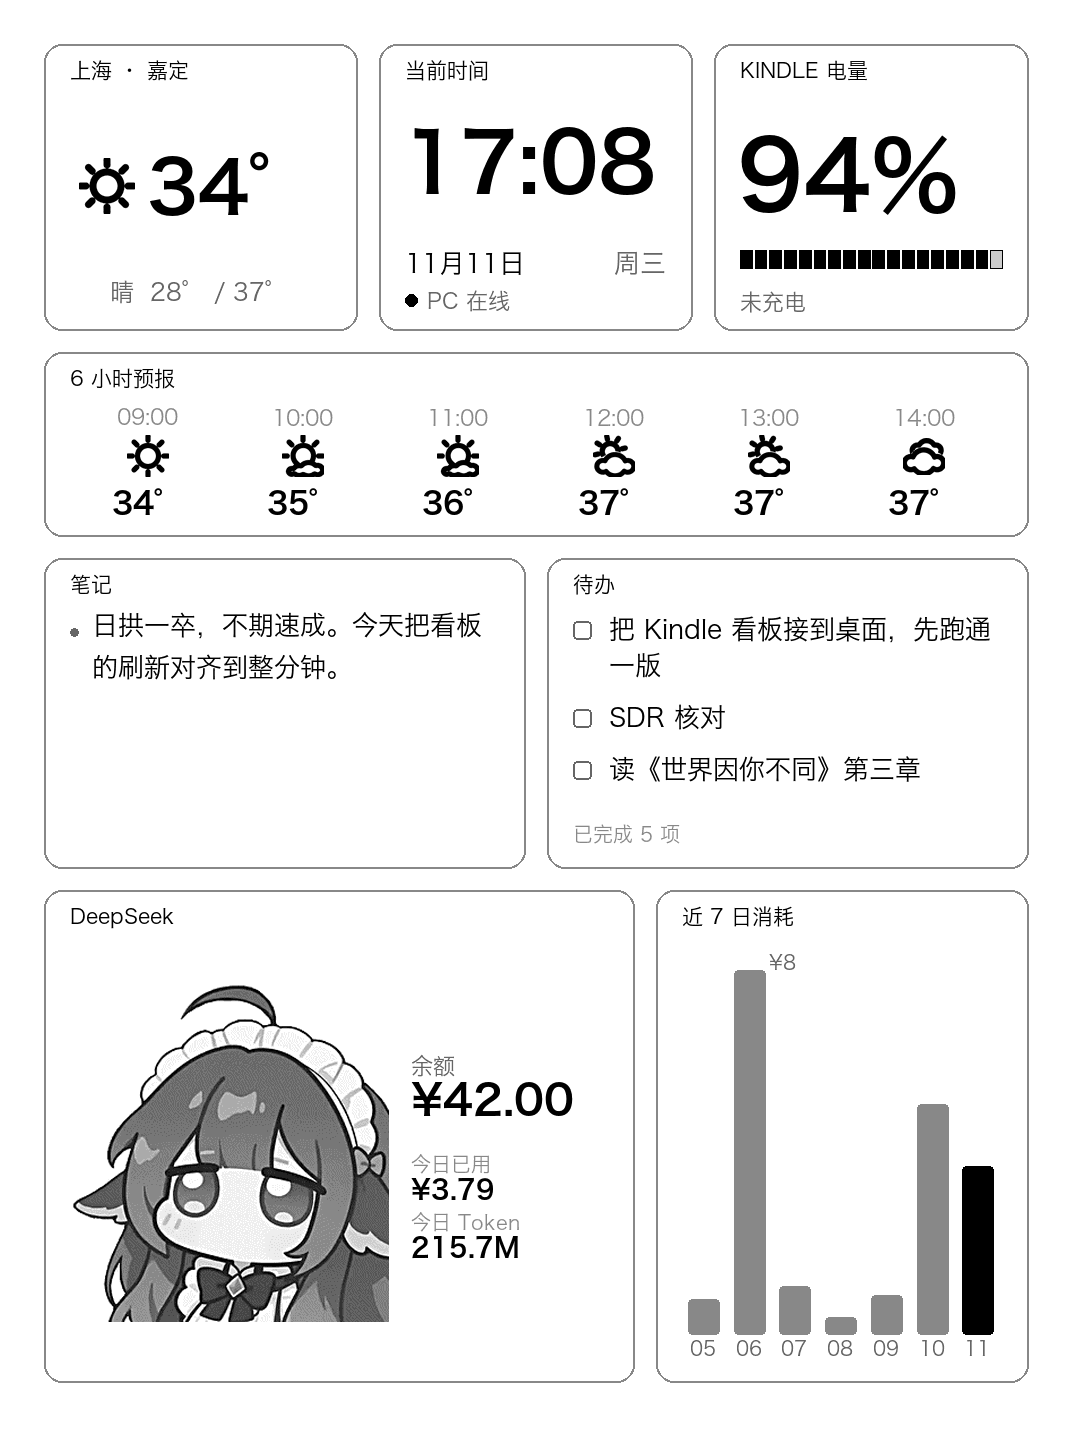
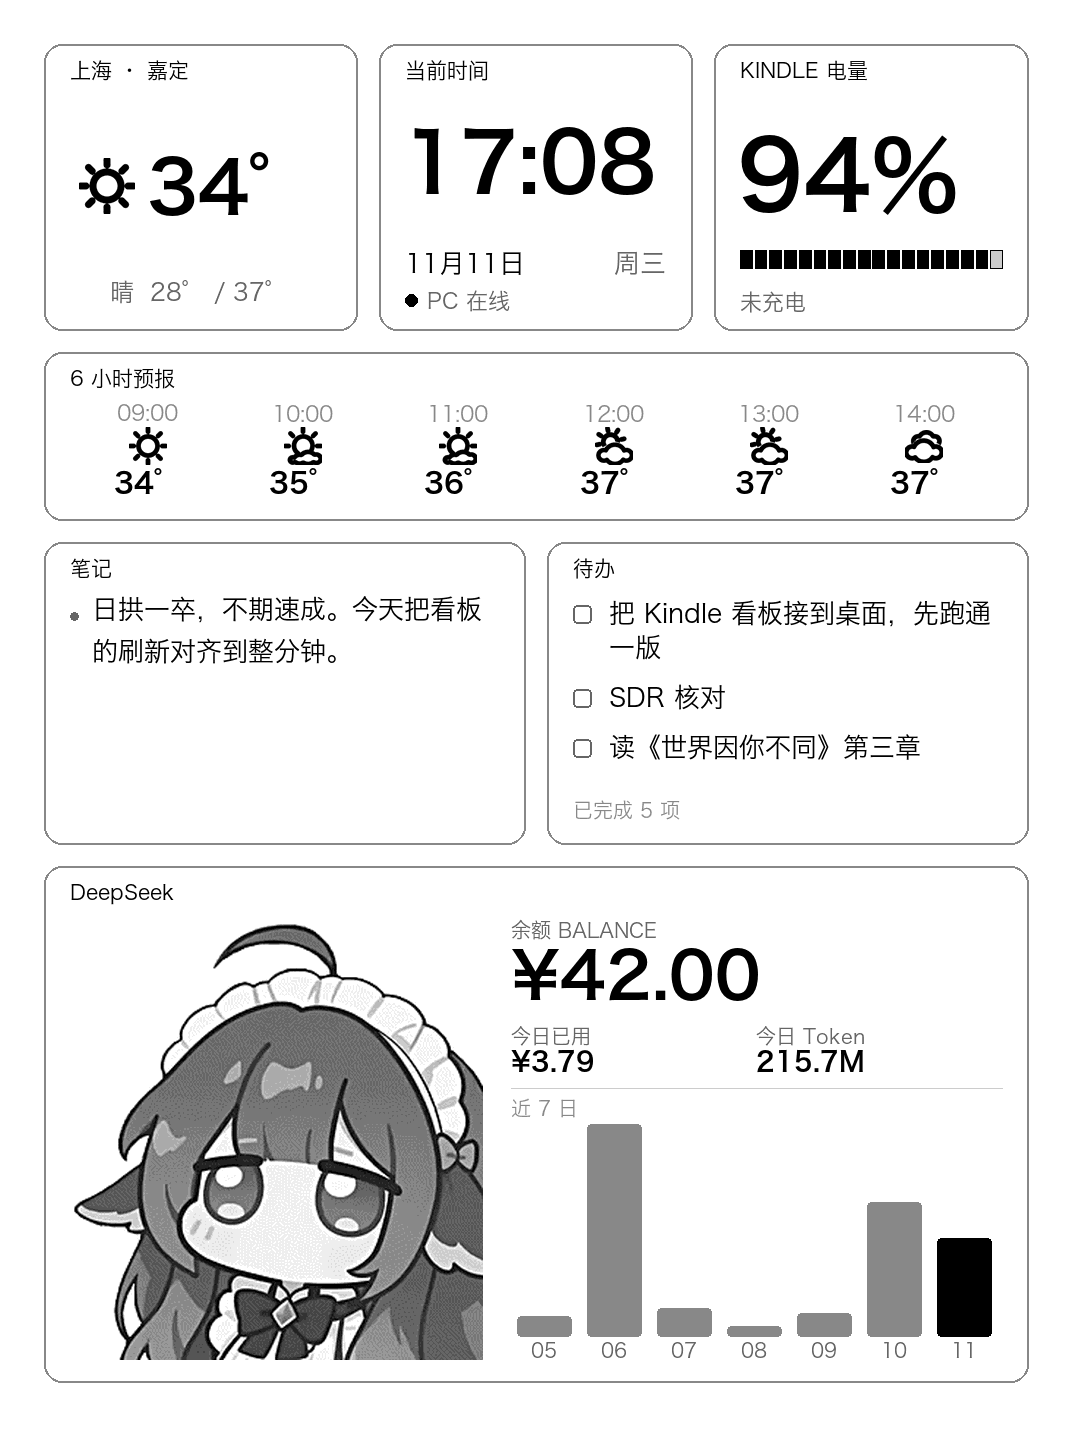
style: 立绘贴底、DeepSeek 合回单卡（数字在上/七日柱在下），修待办被截断

diff --git a/src/dashboard_renderer.py b/src/dashboard_renderer.py
@@ -562,10 +562,10 @@ class DashboardRenderer:
         item_w = (x1 - x0) / n
         for i, h in enumerate(hourly):
             ix = x0 + item_w * (i + 0.5)
-            draw.text((ix, y0 + 2), h.hour, font=self.f_small,
+            draw.text((ix, y0 - 2), h.hour, font=self.f_small,
                       fill=GRAY_MID, anchor="mt")
-            self._draw_weather_icon(img, ix, y0 + 50, 42, h.icon_code)
-            draw.text((ix, y0 + 82), f"{h.temp}°", font=self.f_hour,
+            self._draw_weather_icon(img, ix, y0 + 40, 38, h.icon_code)
+            draw.text((ix, y0 + 62), f"{h.temp}°", font=self._bold(28),
                       fill=BLACK, anchor="mt")
 
     def _placeholder_removed(self):
@@ -609,14 +609,14 @@ class DashboardRenderer:
             for t in todos[:8]:
                 lines = self._wrap_text(draw, t.title, self.f_body,
                                         x1 - x0 - 40, max_lines=2)
-                need = 36 * len(lines) + 16
+                need = 34 * len(lines) + 16
                 # 放不下整条就停，别把字压到"已完成"那行上
                 if cy + need > limit:
                     break
                 self._checkbox(draw, x0, cy + 5, size=18)
                 for ln in lines:
                     draw.text((x0 + 36, cy), ln, font=self.f_body, fill=BLACK)
-                    cy += 36
+                    cy += 34
                 if t.due_text:
                     draw.text((x1, cy - 36), t.due_text, font=self.f_small,
                               fill=GRAY_DARK, anchor="ra")
@@ -653,7 +653,7 @@ class DashboardRenderer:
         total = 0
         for t in todos[:8]:
             lines = self._wrap_text(draw, t.title, self.f_body, wrap_w, max_lines=2)
-            total += 36 * len(lines) + 16
+            total += 34 * len(lines) + 16
         need = 54 + 22 + total + (34 if self._todo_done else 0) + 8
         return int(max(lo, min(hi, need)))
 
@@ -690,41 +690,58 @@ class DashboardRenderer:
                       font=self.f_small, fill=GRAY_DARK)
             return
 
-        inner_w, inner_h = x1 - x0, y1 - y0
+        inner_h = y1 - y0
 
-        # 立绘：宽度不超过卡片内宽的 42%，并在垂直方向居中，
-        # 免得"下面空一截"
-        m = self._mascot()
+        # 立绘顶满卡片高度，下沿贴住卡片底边
         col_x = x0
+        m = self._mascot()
         if m is not None:
-            # 立绘尽量顶满卡片高度（留 24px 呼吸），右侧剩下的宽度给数字
-            mh = min(inner_h - 24, 340)
+            mh = inner_h
             mw = int(mh * m.width / m.height)
-            mm = m.resize((mw, mh), Image.LANCZOS)
-            img.paste(mm, (x0, y0 + (inner_h - mh) // 2))
-            col_x = x0 + mw + 22
+            img.paste(m.resize((mw, mh), Image.LANCZOS), (x0, y0))
+            col_x = x0 + mw + 28
 
-        avail = x1 - col_x
-        block_h = 196
-        y = y0 + max(0, (inner_h - block_h) // 2)
+        right_w = x1 - col_x
 
-        # 窄栏里一行放不下"标签 + 数值"，改成标签在上、数值在下
-        draw.text((col_x, y), "余额", font=self.f_small, fill=GRAY_DARK)
+        # 上：余额 + 两行当日用量（左右并排，省高度）
+        draw.text((col_x, y0), "余额 BALANCE", font=self.f_tiny, fill=GRAY_DARK)
         bal = f"¥{d.balance:.2f}" if d.balance is not None else "—"
-        bf = self._bold(52)
-        if draw.textlength(bal, font=bf) > avail:
-            bf = self._bold(42)
-        draw.text((col_x, y + 24), bal, font=bf, fill=BLACK)
+        bf = self._bold(64)
+        if draw.textlength(bal, font=bf) > right_w:
+            bf = self._bold(52)
+        draw.text((col_x, y0 + 22), bal, font=bf, fill=BLACK)
 
-        y += 100
+        row_y = y0 + 106
+        half = right_w // 2
         cost = f"¥{d.today_cost:.2f}" if d.today_cost is not None else "—"
-        draw.text((col_x, y), "今日已用", font=self.f_tiny, fill=GRAY_MID)
-        draw.text((col_x, y + 22), cost, font=self.f_body_b, fill=BLACK)
-
-        y += 58
-        draw.text((col_x, y), "今日 Token", font=self.f_tiny, fill=GRAY_MID)
-        draw.text((col_x, y + 22), self._human_tokens(d.today_tokens),
+        draw.text((col_x, row_y), "今日已用", font=self.f_tiny, fill=GRAY_DARK)
+        draw.text((col_x, row_y + 22), cost, font=self.f_body_b, fill=BLACK)
+        draw.text((col_x + half, row_y), "今日 Token", font=self.f_tiny, fill=GRAY_DARK)
+        draw.text((col_x + half, row_y + 22), self._human_tokens(d.today_tokens),
                   font=self.f_body_b, fill=BLACK)
+
+        # 下：近 7 日柱状（占满右区宽度）
+        sep = row_y + 62
+        draw.line((col_x, sep, x1, sep), fill=GRAY_LIGHT, width=1)
+
+        hist = list(getattr(d, "history", []) or [])
+        if len(hist) >= 2:
+            draw.text((col_x, sep + 10), "近 7 日", font=self.f_tiny, fill=GRAY_MID)
+            top = sep + 36
+            base = y1 - 24
+            n = len(hist)
+            slot = right_w / n
+            mx = max((c for _, c in hist), default=0.0) or 1.0
+            for i, (day, c) in enumerate(hist):
+                bh = int((base - top) * (c / mx)) if c > 0 else 0
+                bx = int(col_x + i * slot + 6)
+                bw = max(10, int(slot - 16))
+                if bh > 2:
+                    fill = BLACK if i == n - 1 else GRAY_MID
+                    draw.rounded_rectangle((bx, base - bh, bx + bw, base),
+                                           radius=4, fill=fill)
+                draw.text((bx + bw // 2, base + 4), day[-2:],
+                          font=self.f_tiny, fill=GRAY_DARK, anchor="ma")
 
     def _panel_trend(self, draw, box, d):
         x0, y0, x1, y1 = self._panel_frame(draw, box, "近 7 日消耗")
@@ -823,7 +840,7 @@ class DashboardRenderer:
         y += top_h + GAP
 
         # 逐时天气
-        hourly_h = 184
+        hourly_h = 168
         self._panel_hourly_weather(draw, (x0, y, x1, y + hourly_h),
                                    snap.hourly_weather, img)
         y += hourly_h + GAP
@@ -843,9 +860,7 @@ class DashboardRenderer:
 
         # DeepSeek 整行，吃满剩余高度
         ds_h = status_top - GAP - y
-        split = x0 + int((x1 - x0) * 0.60)
-        self._panel_deepseek(draw, (x0, y, split, y + ds_h), snap.deepseek, img)
-        self._panel_trend(draw, (split + GAP, y, x1, y + ds_h), snap.deepseek)
+        self._panel_deepseek(draw, (x0, y, x1, y + ds_h), snap.deepseek, img)
 
         return self._quantize(img)
 
